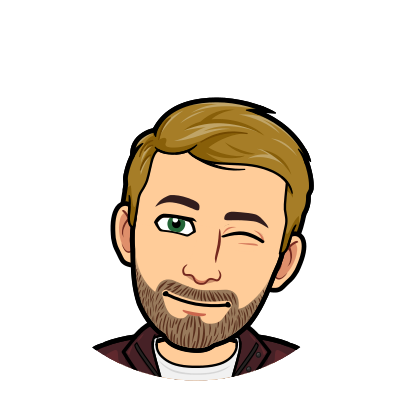
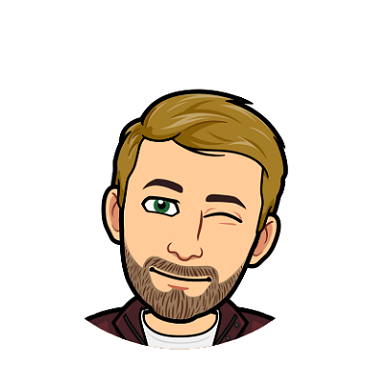
changed margins to fit better

diff --git a/index.html b/index.html
@@ -43,27 +43,22 @@
 
           <tbody>
             <tr>
-              <th scope="row"></th>
               <td>Current status</td>
               <td>Bsc Computer Science @ <a href="https://www.cs.ucy.ac.cy/index.php/">University of Cyprus</a></td>
             </tr>
             <tr>
-              <th scope="row"></th>
               <td>Programming</td>
               <td>Java, Android, C, Python, Pascal, HTML/CSS/PHP, ARM v8-A</td>
             </tr>
             <tr>
-              <th scope="row"></th>
               <td>Speaking languages</td>
               <td>Greek, English, French</td>
             </tr>
             <tr>
-              <th scope="row"></th>
               <td>Military Services</td>
               <td>Signal Sergeant / Cyprus Army</td>
             </tr>
             <tr>
-              <th scope="row"></th>
               <td>Competetions</td>
               <td>F1 in Schools - 2014 worldwide fastest car award</td>
             </tr>
@@ -74,7 +69,7 @@
 
       <div class="col-4 rightSection">
 
-        <img src="./images/myIcon.png">
+        <img src="./images/myIcon.png" class="responsive-img">
 
         <div class="list-group navBar">
           <a href="#" class="list-group-item  nav-link active">Home</a>

diff --git a/main.css b/main.css
@@ -9,24 +9,30 @@ body{
 }
 
 .leftSection{
-    margin-top: 100px;
+    margin-top: 150px;
 }
 
 .rightSection{
-    margin-top: 25px;
+    margin-top: 75px;
 }
 
 .navBar{
-    margin-left: 60px;
-    margin-top: 45px;
+    font-size: 18px;
+    font-weight: bold;
+    padding-top: 60px;
+    padding-left: 30px;
+    padding-right: 20px;     
 }
 
 footer{
     position: fixed;
     left: 0;
     bottom: 0;
-    border-top: 20px;
     width: 100%;
     text-align: center;
+}
+
+.responsive-img{
+    margin: 0 auto;
 }
 
